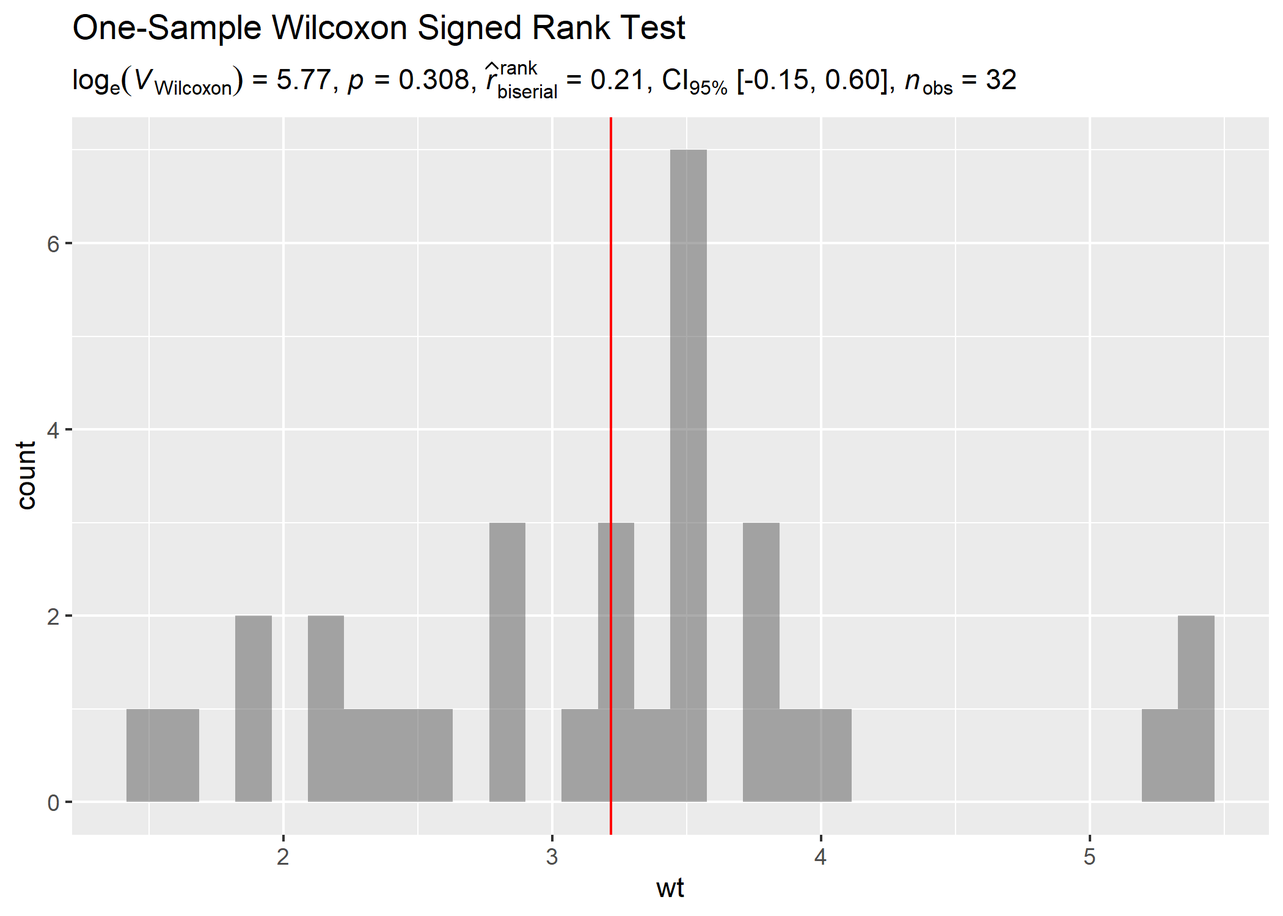
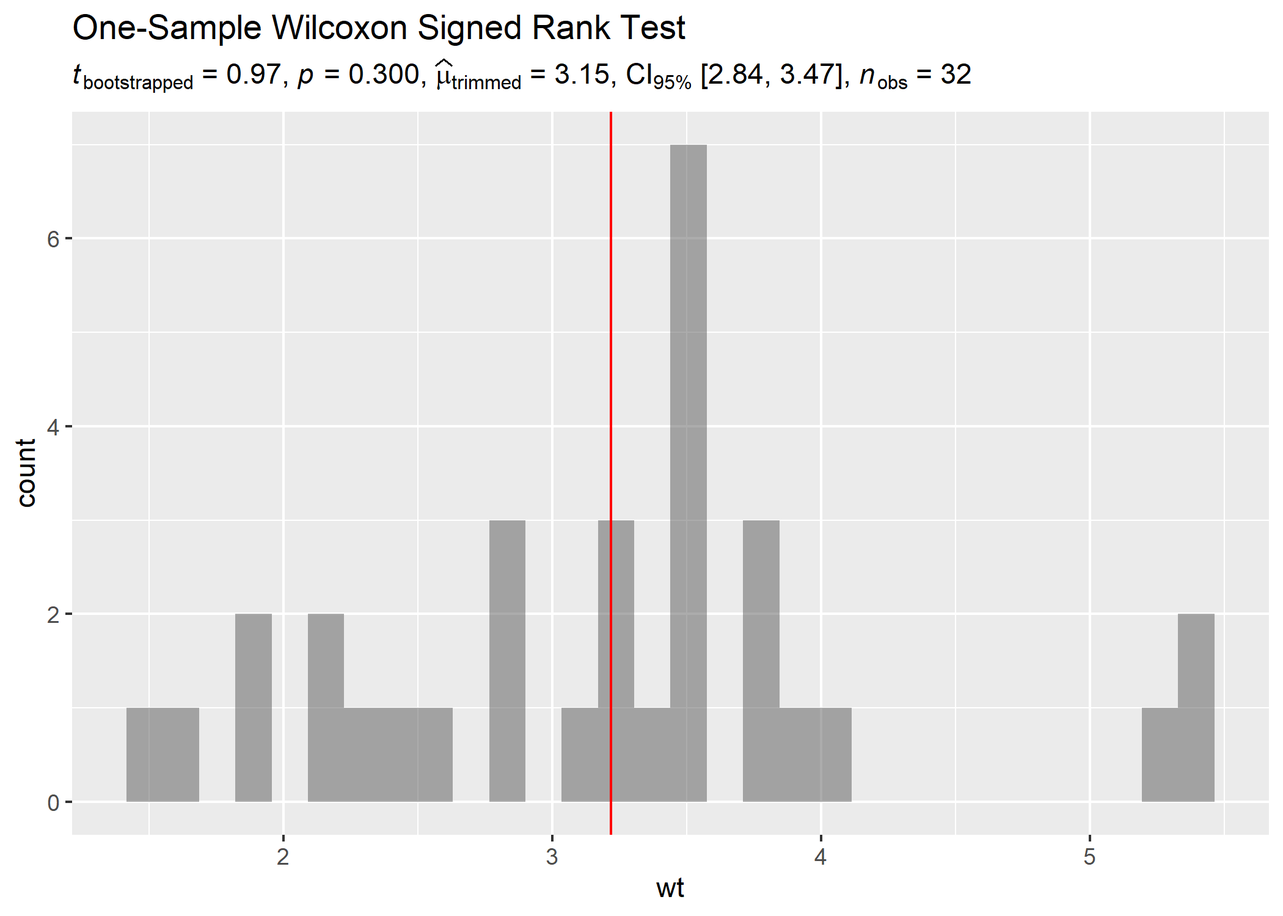
change the robust one sample test

diff --git a/docs/reference/expr_t_twosample.html b/docs/reference/expr_t_twosample.html
@@ -306,13 +306,13 @@ if appropriate as shown in the second example below.</p>
   type <span class='op'>=</span> <span class='st'>"p"</span>,
   output <span class='op'>=</span> <span class='st'>"dataframe"</span>
 <span class='op'>)</span>
-</div><div class='output co'>#&gt; <span style='color: #949494;'># A tibble: 1 x 11</span><span>
+</div><div class='output co'>#&gt; <span style='color: #555555;'># A tibble: 1 x 11</span><span>
 #&gt;   </span><span style='font-weight: bold;'>term</span><span>  </span><span style='font-weight: bold;'>group</span><span>    </span><span style='font-weight: bold;'>statistic</span><span> </span><span style='font-weight: bold;'>df.error</span><span>  </span><span style='font-weight: bold;'>p.value</span><span> </span><span style='font-weight: bold;'>method</span><span>        </span><span style='font-weight: bold;'>estimate</span><span> </span><span style='font-weight: bold;'>ci.width</span><span>
-#&gt;   </span><span style='color: #949494;font-style: italic;'>&lt;chr&gt;</span><span> </span><span style='color: #949494;font-style: italic;'>&lt;chr&gt;</span><span>        </span><span style='color: #949494;font-style: italic;'>&lt;dbl&gt;</span><span>    </span><span style='color: #949494;font-style: italic;'>&lt;dbl&gt;</span><span>    </span><span style='color: #949494;font-style: italic;'>&lt;dbl&gt;</span><span> </span><span style='color: #949494;font-style: italic;'>&lt;chr&gt;</span><span>            </span><span style='color: #949494;font-style: italic;'>&lt;dbl&gt;</span><span>    </span><span style='color: #949494;font-style: italic;'>&lt;dbl&gt;</span><span>
-#&gt; </span><span style='color: #BCBCBC;'>1</span><span> score modality     -</span><span style='color: #BB0000;'>3.96</span><span>       33 </span><span style='color: #949494;'>0.000</span><span style='text-decoration: underline;'>373</span><span> Paired t-test   -</span><span style='color: #949494;'>0.</span><span style='color: #BB0000;'>664</span><span>     </span><span style='color: #949494;'>0.</span><span>95
+#&gt;   </span><span style='color: #555555;font-style: italic;'>&lt;chr&gt;</span><span> </span><span style='color: #555555;font-style: italic;'>&lt;chr&gt;</span><span>        </span><span style='color: #555555;font-style: italic;'>&lt;dbl&gt;</span><span>    </span><span style='color: #555555;font-style: italic;'>&lt;dbl&gt;</span><span>    </span><span style='color: #555555;font-style: italic;'>&lt;dbl&gt;</span><span> </span><span style='color: #555555;font-style: italic;'>&lt;chr&gt;</span><span>            </span><span style='color: #555555;font-style: italic;'>&lt;dbl&gt;</span><span>    </span><span style='color: #555555;font-style: italic;'>&lt;dbl&gt;</span><span>
+#&gt; </span><span style='color: #555555;'>1</span><span> score modality     -</span><span style='color: #BB0000;'>3.96</span><span>       33 </span><span style='color: #555555;'>0.000</span><span style='text-decoration: underline;'>373</span><span> Paired t-test   -</span><span style='color: #555555;'>0.</span><span style='color: #BB0000;'>664</span><span>     </span><span style='color: #555555;'>0.</span><span>95
 #&gt;   </span><span style='font-weight: bold;'>conf.low</span><span> </span><span style='font-weight: bold;'>conf.high</span><span> </span><span style='font-weight: bold;'>effectsize</span><span>
-#&gt;      </span><span style='color: #949494;font-style: italic;'>&lt;dbl&gt;</span><span>     </span><span style='color: #949494;font-style: italic;'>&lt;dbl&gt;</span><span> </span><span style='color: #949494;font-style: italic;'>&lt;chr&gt;</span><span>     
-#&gt; </span><span style='color: #BCBCBC;'>1</span><span>    -</span><span style='color: #BB0000;'>1.04</span><span>    -</span><span style='color: #949494;'>0.</span><span style='color: #BB0000;'>299</span><span> Hedges' g </div><div class='input'>
+#&gt;      </span><span style='color: #555555;font-style: italic;'>&lt;dbl&gt;</span><span>     </span><span style='color: #555555;font-style: italic;'>&lt;dbl&gt;</span><span> </span><span style='color: #555555;font-style: italic;'>&lt;chr&gt;</span><span>     
+#&gt; </span><span style='color: #555555;'>1</span><span>    -</span><span style='color: #BB0000;'>1.04</span><span>    -</span><span style='color: #555555;'>0.</span><span style='color: #BB0000;'>299</span><span> Hedges' g </div><div class='input'>
 <span class='co'># ----------------------- non-parametric ----------------------------------</span>
 
 <span class='co'># between-subjects design</span>
@@ -336,13 +336,13 @@ if appropriate as shown in the second example below.</p>
   type <span class='op'>=</span> <span class='st'>"np"</span>,
   output <span class='op'>=</span> <span class='st'>"dataframe"</span>
 <span class='op'>)</span>
-</div><div class='output co'>#&gt; <span class='warning'>Warning: Zeros detected. These cannot be sign-rank transformed.</span></div><div class='output co'>#&gt; </span><span style='color: #949494;'># A tibble: 1 x 10</span><span>
+</div><div class='output co'>#&gt; <span class='warning'>Warning: Zeros detected. These cannot be sign-rank transformed.</span></div><div class='output co'>#&gt; </span><span style='color: #555555;'># A tibble: 1 x 10</span><span>
 #&gt;   </span><span style='font-weight: bold;'>parameter1</span><span> </span><span style='font-weight: bold;'>parameter2</span><span> </span><span style='font-weight: bold;'>statistic</span><span>  </span><span style='font-weight: bold;'>p.value</span><span> </span><span style='font-weight: bold;'>method</span><span>                    </span><span style='font-weight: bold;'>estimate</span><span>
-#&gt;   </span><span style='color: #949494;font-style: italic;'>&lt;chr&gt;</span><span>      </span><span style='color: #949494;font-style: italic;'>&lt;chr&gt;</span><span>          </span><span style='color: #949494;font-style: italic;'>&lt;dbl&gt;</span><span>    </span><span style='color: #949494;font-style: italic;'>&lt;dbl&gt;</span><span> </span><span style='color: #949494;font-style: italic;'>&lt;chr&gt;</span><span>                        </span><span style='color: #949494;font-style: italic;'>&lt;dbl&gt;</span><span>
-#&gt; </span><span style='color: #BCBCBC;'>1</span><span> score      modality        1.50 </span><span style='color: #949494;'>0.000</span><span style='text-decoration: underline;'>886</span><span> Wilcoxon signed rank test   -</span><span style='color: #949494;'>0.</span><span style='color: #BB0000;'>934</span><span>
+#&gt;   </span><span style='color: #555555;font-style: italic;'>&lt;chr&gt;</span><span>      </span><span style='color: #555555;font-style: italic;'>&lt;chr&gt;</span><span>          </span><span style='color: #555555;font-style: italic;'>&lt;dbl&gt;</span><span>    </span><span style='color: #555555;font-style: italic;'>&lt;dbl&gt;</span><span> </span><span style='color: #555555;font-style: italic;'>&lt;chr&gt;</span><span>                        </span><span style='color: #555555;font-style: italic;'>&lt;dbl&gt;</span><span>
+#&gt; </span><span style='color: #555555;'>1</span><span> score      modality        1.50 </span><span style='color: #555555;'>0.000</span><span style='text-decoration: underline;'>886</span><span> Wilcoxon signed rank test   -</span><span style='color: #555555;'>0.</span><span style='color: #BB0000;'>934</span><span>
 #&gt;   </span><span style='font-weight: bold;'>ci.width</span><span> </span><span style='font-weight: bold;'>conf.low</span><span> </span><span style='font-weight: bold;'>conf.high</span><span> </span><span style='font-weight: bold;'>effectsize</span><span>       
-#&gt;      </span><span style='color: #949494;font-style: italic;'>&lt;dbl&gt;</span><span>    </span><span style='color: #949494;font-style: italic;'>&lt;dbl&gt;</span><span>     </span><span style='color: #949494;font-style: italic;'>&lt;dbl&gt;</span><span> </span><span style='color: #949494;font-style: italic;'>&lt;chr&gt;</span><span>            
-#&gt; </span><span style='color: #BCBCBC;'>1</span><span>     </span><span style='color: #949494;'>0.</span><span>95       -</span><span style='color: #BB0000;'>1</span><span>    -</span><span style='color: #949494;'>0.</span><span style='color: #BB0000;'>761</span><span> r (rank biserial)</div><div class='input'>
+#&gt;      </span><span style='color: #555555;font-style: italic;'>&lt;dbl&gt;</span><span>    </span><span style='color: #555555;font-style: italic;'>&lt;dbl&gt;</span><span>     </span><span style='color: #555555;font-style: italic;'>&lt;dbl&gt;</span><span> </span><span style='color: #555555;font-style: italic;'>&lt;chr&gt;</span><span>            
+#&gt; </span><span style='color: #555555;'>1</span><span>     </span><span style='color: #555555;'>0.</span><span>95       -</span><span style='color: #BB0000;'>1</span><span>    -</span><span style='color: #555555;'>0.</span><span style='color: #BB0000;'>761</span><span> r (rank biserial)</div><div class='input'>
 <span class='co'># ------------------------------ robust ----------------------------------</span>
 
 <span class='co'># between-subjects design</span>
@@ -366,13 +366,13 @@ if appropriate as shown in the second example below.</p>
   type <span class='op'>=</span> <span class='st'>"r"</span>,
   output <span class='op'>=</span> <span class='st'>"dataframe"</span>
 <span class='op'>)</span>
-</div><div class='output co'>#&gt; </span><span style='color: #949494;'># A tibble: 1 x 12</span><span>
+</div><div class='output co'>#&gt; </span><span style='color: #555555;'># A tibble: 1 x 12</span><span>
 #&gt;   </span><span style='font-weight: bold;'>statistic</span><span> </span><span style='font-weight: bold;'>df.error</span><span> </span><span style='font-weight: bold;'>p.value</span><span> </span><span style='font-weight: bold;'>method</span><span>                                            
-#&gt;       </span><span style='color: #949494;font-style: italic;'>&lt;dbl&gt;</span><span>    </span><span style='color: #949494;font-style: italic;'>&lt;dbl&gt;</span><span>   </span><span style='color: #949494;font-style: italic;'>&lt;dbl&gt;</span><span> </span><span style='color: #949494;font-style: italic;'>&lt;chr&gt;</span><span>                                             
-#&gt; </span><span style='color: #BCBCBC;'>1</span><span>     -</span><span style='color: #BB0000;'>3.07</span><span>       27 </span><span style='color: #949494;'>0.00</span><span>4</span><span style='text-decoration: underline;'>79</span><span> Yuen's test on trimmed means for dependent samples
+#&gt;       </span><span style='color: #555555;font-style: italic;'>&lt;dbl&gt;</span><span>    </span><span style='color: #555555;font-style: italic;'>&lt;dbl&gt;</span><span>   </span><span style='color: #555555;font-style: italic;'>&lt;dbl&gt;</span><span> </span><span style='color: #555555;font-style: italic;'>&lt;chr&gt;</span><span>                                             
+#&gt; </span><span style='color: #555555;'>1</span><span>     -</span><span style='color: #BB0000;'>3.07</span><span>       27 </span><span style='color: #555555;'>0.00</span><span>4</span><span style='text-decoration: underline;'>79</span><span> Yuen's test on trimmed means for dependent samples
 #&gt;   </span><span style='font-weight: bold;'>effectsize</span><span> </span><span style='font-weight: bold;'>`NULL`</span><span> </span><span style='font-weight: bold;'>estimate</span><span>     </span><span style='font-weight: bold;'>S</span><span>     </span><span style='font-weight: bold;'>M</span><span>     </span><span style='font-weight: bold;'>L</span><span> </span><span style='font-weight: bold;'>conf.low</span><span> </span><span style='font-weight: bold;'>conf.high</span><span>
-#&gt;   </span><span style='color: #949494;font-style: italic;'>&lt;chr&gt;</span><span>       </span><span style='color: #949494;font-style: italic;'>&lt;dbl&gt;</span><span>    </span><span style='color: #949494;font-style: italic;'>&lt;dbl&gt;</span><span> </span><span style='color: #949494;font-style: italic;'>&lt;dbl&gt;</span><span> </span><span style='color: #949494;font-style: italic;'>&lt;dbl&gt;</span><span> </span><span style='color: #949494;font-style: italic;'>&lt;dbl&gt;</span><span>    </span><span style='color: #949494;font-style: italic;'>&lt;dbl&gt;</span><span>     </span><span style='color: #949494;font-style: italic;'>&lt;dbl&gt;</span><span>
-#&gt; </span><span style='color: #BCBCBC;'>1</span><span> AKP             </span><span style='color: #949494;'>0</span><span>   -</span><span style='color: #949494;'>0.</span><span style='color: #BB0000;'>593</span><span>   </span><span style='color: #949494;'>0.</span><span>1   </span><span style='color: #949494;'>0.</span><span>3   </span><span style='color: #949494;'>0.</span><span>5   -</span><span style='color: #949494;'>0.</span><span style='color: #BB0000;'>836</span><span>    -</span><span style='color: #949494;'>0.</span><span style='color: #BB0000;'>296</span><span></div><div class='input'>
+#&gt;   </span><span style='color: #555555;font-style: italic;'>&lt;chr&gt;</span><span>       </span><span style='color: #555555;font-style: italic;'>&lt;dbl&gt;</span><span>    </span><span style='color: #555555;font-style: italic;'>&lt;dbl&gt;</span><span> </span><span style='color: #555555;font-style: italic;'>&lt;dbl&gt;</span><span> </span><span style='color: #555555;font-style: italic;'>&lt;dbl&gt;</span><span> </span><span style='color: #555555;font-style: italic;'>&lt;dbl&gt;</span><span>    </span><span style='color: #555555;font-style: italic;'>&lt;dbl&gt;</span><span>     </span><span style='color: #555555;font-style: italic;'>&lt;dbl&gt;</span><span>
+#&gt; </span><span style='color: #555555;'>1</span><span> AKP             </span><span style='color: #555555;'>0</span><span>   -</span><span style='color: #555555;'>0.</span><span style='color: #BB0000;'>593</span><span>   </span><span style='color: #555555;'>0.</span><span>1   </span><span style='color: #555555;'>0.</span><span>3   </span><span style='color: #555555;'>0.</span><span>5   -</span><span style='color: #555555;'>0.</span><span style='color: #BB0000;'>836</span><span>    -</span><span style='color: #555555;'>0.</span><span style='color: #BB0000;'>296</span><span></div><div class='input'>
 <span class='co'>#' # ------------------------------ Bayesian ------------------------------</span>
 
 <span class='co'># between-subjects design</span>
@@ -395,15 +395,15 @@ if appropriate as shown in the second example below.</p>
   type <span class='op'>=</span> <span class='st'>"bayes"</span>,
   output <span class='op'>=</span> <span class='st'>"dataframe"</span>
 <span class='op'>)</span>
-</div><div class='output co'>#&gt; </span><span style='color: #949494;'># A tibble: 2 x 12</span><span>
+</div><div class='output co'>#&gt; </span><span style='color: #555555;'># A tibble: 2 x 12</span><span>
 #&gt;   </span><span style='font-weight: bold;'>term</span><span>       </span><span style='font-weight: bold;'>estimate</span><span> </span><span style='font-weight: bold;'>conf.low</span><span> </span><span style='font-weight: bold;'>conf.high</span><span>    </span><span style='font-weight: bold;'>pd</span><span> </span><span style='font-weight: bold;'>rope.percentage</span><span>
-#&gt;   </span><span style='color: #949494;font-style: italic;'>&lt;chr&gt;</span><span>         </span><span style='color: #949494;font-style: italic;'>&lt;dbl&gt;</span><span>    </span><span style='color: #949494;font-style: italic;'>&lt;dbl&gt;</span><span>     </span><span style='color: #949494;font-style: italic;'>&lt;dbl&gt;</span><span> </span><span style='color: #949494;font-style: italic;'>&lt;dbl&gt;</span><span>           </span><span style='color: #949494;font-style: italic;'>&lt;dbl&gt;</span><span>
-#&gt; </span><span style='color: #BCBCBC;'>1</span><span> Difference    </span><span style='color: #949494;'>0.</span><span>172   </span><span style='color: #949494;'>0.0</span><span>81</span><span style='text-decoration: underline;'>8</span><span>     </span><span style='color: #949494;'>0.</span><span>266 1                   </span><span style='color: #949494;'>0</span><span>
-#&gt; </span><span style='color: #BCBCBC;'>2</span><span> Cohens_d     -</span><span style='color: #949494;'>0.</span><span style='color: #BB0000;'>637</span><span>  -</span><span style='color: #949494;'>0.</span><span style='color: #BB0000;'>992</span><span>     -</span><span style='color: #949494;'>0.</span><span style='color: #BB0000;'>258</span><span> </span><span style='color: #949494;'>0.</span><span>999               </span><span style='color: #949494;'>0</span><span>
+#&gt;   </span><span style='color: #555555;font-style: italic;'>&lt;chr&gt;</span><span>         </span><span style='color: #555555;font-style: italic;'>&lt;dbl&gt;</span><span>    </span><span style='color: #555555;font-style: italic;'>&lt;dbl&gt;</span><span>     </span><span style='color: #555555;font-style: italic;'>&lt;dbl&gt;</span><span> </span><span style='color: #555555;font-style: italic;'>&lt;dbl&gt;</span><span>           </span><span style='color: #555555;font-style: italic;'>&lt;dbl&gt;</span><span>
+#&gt; </span><span style='color: #555555;'>1</span><span> Difference    </span><span style='color: #555555;'>0.</span><span>172   </span><span style='color: #555555;'>0.0</span><span>81</span><span style='text-decoration: underline;'>8</span><span>     </span><span style='color: #555555;'>0.</span><span>266 1                   </span><span style='color: #555555;'>0</span><span>
+#&gt; </span><span style='color: #555555;'>2</span><span> Cohens_d     -</span><span style='color: #555555;'>0.</span><span style='color: #BB0000;'>637</span><span>  -</span><span style='color: #555555;'>0.</span><span style='color: #BB0000;'>992</span><span>     -</span><span style='color: #555555;'>0.</span><span style='color: #BB0000;'>258</span><span> </span><span style='color: #555555;'>0.</span><span>999               </span><span style='color: #555555;'>0</span><span>
 #&gt;   </span><span style='font-weight: bold;'>prior.distribution</span><span> </span><span style='font-weight: bold;'>prior.location</span><span> </span><span style='font-weight: bold;'>prior.scale</span><span>  </span><span style='font-weight: bold;'>bf10</span><span> </span><span style='font-weight: bold;'>method</span><span>          </span><span style='font-weight: bold;'>log_e_bf10</span><span>
-#&gt;   </span><span style='color: #949494;font-style: italic;'>&lt;chr&gt;</span><span>                       </span><span style='color: #949494;font-style: italic;'>&lt;dbl&gt;</span><span>       </span><span style='color: #949494;font-style: italic;'>&lt;dbl&gt;</span><span> </span><span style='color: #949494;font-style: italic;'>&lt;dbl&gt;</span><span> </span><span style='color: #949494;font-style: italic;'>&lt;chr&gt;</span><span>                </span><span style='color: #949494;font-style: italic;'>&lt;dbl&gt;</span><span>
-#&gt; </span><span style='color: #BCBCBC;'>1</span><span> cauchy                          </span><span style='color: #949494;'>0</span><span>       </span><span style='color: #949494;'>0.</span><span>707  77.1 Bayesian t-test       4.34
-#&gt; </span><span style='color: #BCBCBC;'>2</span><span> cauchy                          </span><span style='color: #949494;'>0</span><span>       </span><span style='color: #949494;'>0.</span><span>707  77.1 Bayesian t-test       4.34</div><div class='input'><span class='co'># }</span>
+#&gt;   </span><span style='color: #555555;font-style: italic;'>&lt;chr&gt;</span><span>                       </span><span style='color: #555555;font-style: italic;'>&lt;dbl&gt;</span><span>       </span><span style='color: #555555;font-style: italic;'>&lt;dbl&gt;</span><span> </span><span style='color: #555555;font-style: italic;'>&lt;dbl&gt;</span><span> </span><span style='color: #555555;font-style: italic;'>&lt;chr&gt;</span><span>                </span><span style='color: #555555;font-style: italic;'>&lt;dbl&gt;</span><span>
+#&gt; </span><span style='color: #555555;'>1</span><span> cauchy                          </span><span style='color: #555555;'>0</span><span>       </span><span style='color: #555555;'>0.</span><span>707  77.1 Bayesian t-test       4.34
+#&gt; </span><span style='color: #555555;'>2</span><span> cauchy                          </span><span style='color: #555555;'>0</span><span>       </span><span style='color: #555555;'>0.</span><span>707  77.1 Bayesian t-test       4.34</div><div class='input'><span class='co'># }</span>
 </div></span></pre>
   </div>
   <div class="col-md-3 hidden-xs hidden-sm" id="pkgdown-sidebar">

diff --git a/docs/articles/stats_details.html b/docs/articles/stats_details.html
@@ -456,7 +456,6 @@
 <td>[0,1]</td>
 </tr></tbody>
 </table>
-<p><strong>Reference</strong>: - <a href="https://CRAN.R-project.org/package=WRS2/vignettes/WRS2.pdf" class="uri">https://CRAN.R-project.org/package=WRS2/vignettes/WRS2.pdf</a> - <a href="https://journals.sagepub.com/doi/10.1177/0013164406288161" class="uri">https://journals.sagepub.com/doi/10.1177/0013164406288161</a></p>
 </div>
 </div>
 <div id="between-subjects-design" class="section level2">
@@ -514,7 +513,6 @@
 <td>[0,1]</td>
 </tr></tbody>
 </table>
-<p><strong>Reference</strong>: <a href="https://rcompanion.org/handbook/F_04.html" class="uri">https://rcompanion.org/handbook/F_04.html</a></p>
 </div>
 <div id="robust-2" class="section level3">
 <h3 class="hasAnchor">
@@ -536,7 +534,6 @@
 <td>[0,1]</td>
 </tr></tbody>
 </table>
-<p><strong>Reference</strong>: <a href="https://CRAN.R-project.org/package=WRS2/vignettes/WRS2.pdf" class="uri">https://CRAN.R-project.org/package=WRS2/vignettes/WRS2.pdf</a></p>
 </div>
 </div>
 </div>
@@ -698,7 +695,6 @@
 <td>[0,1]</td>
 </tr></tbody>
 </table>
-<p><strong>Reference</strong>: <a href="https://rcompanion.org/handbook/F_08.html" class="uri">https://rcompanion.org/handbook/F_08.html</a></p>
 </div>
 <div id="robust-4" class="section level3">
 <h3 class="hasAnchor">
@@ -720,7 +716,6 @@
 <td>[0,1]</td>
 </tr></tbody>
 </table>
-<p><strong>Reference</strong>: <a href="https://CRAN.R-project.org/package=WRS2/vignettes/WRS2.pdf" class="uri">https://CRAN.R-project.org/package=WRS2/vignettes/WRS2.pdf</a></p>
 </div>
 </div>
 </div>
@@ -767,7 +762,6 @@
 </tr>
 </tbody>
 </table>
-<p><strong>Reference</strong>: <a href="https://rcompanion.org/handbook/H_10.html" class="uri">https://rcompanion.org/handbook/H_10.html</a></p>
 </div>
 <div id="association-test---paired" class="section level2">
 <h2 class="hasAnchor">
@@ -790,7 +784,6 @@
 <td>[0,1]</td>
 </tr></tbody>
 </table>
-<p><strong>Reference</strong>: <a href="https://rcompanion.org/handbook/H_05.html" class="uri">https://rcompanion.org/handbook/H_05.html</a></p>
 </div>
 <div id="goodness-of-fit-test" class="section level2">
 <h2 class="hasAnchor">
@@ -880,7 +873,6 @@
 </tr>
 </tbody>
 </table>
-<p><strong>Reference</strong>: <a href="https://rcompanion.org/handbook/H_03.html" class="uri">https://rcompanion.org/handbook/H_03.html</a></p>
 </div>
 </div>
 <div id="correlation-analyses" class="section level1">
@@ -976,6 +968,15 @@
 <a href="#dataframe-as-output" class="anchor"></a>Dataframe as output</h1>
 <p>Although the primary focus of this package is to get expressions containing statistical results, one can also use it to extract dataframes containing these details.</p>
 <p>For a more detailed summary of these dataframe: <a href="https://indrajeetpatil.github.io/statsExpressions//articles/web_only/dataframe_outputs.html" class="uri">https://indrajeetpatil.github.io/statsExpressions//articles/web_only/dataframe_outputs.html</a></p>
+</div>
+<div id="references" class="section level1">
+<h1 class="hasAnchor">
+<a href="#references" class="anchor"></a>References</h1>
+<ul>
+<li><p>For parametric and non-parametric effect sizes: <a href="https://easystats.github.io/effectsize/articles/simple_htests.html" class="uri">https://easystats.github.io/effectsize/articles/simple_htests.html</a></p></li>
+<li><p>For robust effect sizes: <a href="https://CRAN.R-project.org/package=WRS2/vignettes/WRS2.pdf" class="uri">https://CRAN.R-project.org/package=WRS2/vignettes/WRS2.pdf</a></p></li>
+<li><p>For Bayesian posterior estimates: <a href="https://easystats.github.io/bayestestR/articles/bayes_factors.html" class="uri">https://easystats.github.io/bayestestR/articles/bayes_factors.html</a></p></li>
+</ul>
 </div>
 <div id="suggestions" class="section level1">
 <h1 class="hasAnchor">

diff --git a/docs/reference/expr_t_onesample.html b/docs/reference/expr_t_onesample.html
@@ -163,8 +163,8 @@ robust equivalents</p>
   test.value <span class='op'>=</span> <span class='fl'>0</span>,
   k <span class='op'>=</span> <span class='fl'>2L</span>,
   conf.level <span class='op'>=</span> <span class='fl'>0.95</span>,
+  tr <span class='op'>=</span> <span class='fl'>0.1</span>,
   bf.prior <span class='op'>=</span> <span class='fl'>0.707</span>,
-  robust.estimator <span class='op'>=</span> <span class='st'>"onestep"</span>,
   effsize.type <span class='op'>=</span> <span class='st'>"g"</span>,
   nboot <span class='op'>=</span> <span class='fl'>100L</span>,
   output <span class='op'>=</span> <span class='st'>"expression"</span>,
@@ -206,15 +206,17 @@ or <code>"robust"</code> or <code>"bayes"</code>).Corresponding abbreviations ar
 <code>95%</code> confidence/credible intervals (<code>0.95</code>).</p></td>
     </tr>
     <tr>
+      <th>tr</th>
+      <td><p>Trim level for the mean when carrying out <code>robust</code> tests. If you
+get error stating "Standard error cannot be computed because of Winsorized
+variance of 0 (e.g., due to ties). Try to decrease the trimming level.",
+try to play around with the value of <code>tr</code>, which is by default set to
+<code>0.1</code>. Lowering the value might help.</p></td>
+    </tr>
+    <tr>
       <th>bf.prior</th>
       <td><p>A number between <code>0.5</code> and <code>2</code> (default <code>0.707</code>), the prior
 width to use in calculating Bayes factors.</p></td>
-    </tr>
-    <tr>
-      <th>robust.estimator</th>
-      <td><p>If <code>type = "robust"</code>, a robust estimator to be used
-(<code>"onestep"</code> (Default), <code>"mom"</code>, or <code>"median"</code>). For more, see
-<code><a href='https://rdrr.io/pkg/WRS2/man/onesampb.html'>?WRS2::onesampb</a></code>.</p></td>
     </tr>
     <tr>
       <th>effsize.type</th>
@@ -286,9 +288,10 @@ argument.</p>
   test.value <span class='op'>=</span> <span class='fl'>0.275</span>,
   type <span class='op'>=</span> <span class='st'>"robust"</span>
 <span class='op'>)</span>
-</div><div class='output co'>#&gt; paste(italic("M")["robust"], " = ", "0.02", ", CI"["95%"], " [", 
-#&gt;     "0.01", ", ", "0.05", "], ", italic("p"), " = ", "0e+00", 
-#&gt;     ", ", italic("n")["obs"], " = ", "56")</div><div class='input'>
+</div><div class='output co'>#&gt; paste(italic("t")["bootstrapped"], " = ", "-8.78", ", ", italic("p"), 
+#&gt;     " = ", "0e+00", ", ", widehat(italic(mu))["trimmed"], " = ", 
+#&gt;     "0.07", ", CI"["95%"], " [", "0.01", ", ", "0.12", "]", ", ", 
+#&gt;     italic("n")["obs"], " = ", "56")</div><div class='input'>
 <span class='co'># ----------------------- Bayes Factor -----------------------------------</span>
 
 <span class='fu'>expr_t_onesample</span><span class='op'>(</span>

diff --git a/docs/articles/web_only/dataframe_outputs.html b/docs/articles/web_only/dataframe_outputs.html
@@ -185,13 +185,13 @@
   type <span class="op">=</span> <span class="st">"robust"</span>,
   output <span class="op">=</span> <span class="st">"dataframe"</span>
 <span class="op">)</span>
-<span class="co">#&gt; # A tibble: 1 x 7</span>
-<span class="co">#&gt;   estimate conf.low conf.high p.value n.obs effectsize             </span>
-<span class="co">#&gt;      &lt;dbl&gt;    &lt;dbl&gt;     &lt;dbl&gt;   &lt;dbl&gt; &lt;int&gt; &lt;chr&gt;                  </span>
-<span class="co">#&gt; 1   0.0211   0.0107    0.0685       0    56 Robust location measure</span>
-<span class="co">#&gt;   method                         </span>
-<span class="co">#&gt;   &lt;chr&gt;                          </span>
-<span class="co">#&gt; 1 One-sample percentile bootstrap</span>
+<span class="co">#&gt; # A tibble: 1 x 8</span>
+<span class="co">#&gt;   estimate conf.low conf.high statistic p.value     n effectsize  </span>
+<span class="co">#&gt;      &lt;dbl&gt;    &lt;dbl&gt;     &lt;dbl&gt;     &lt;dbl&gt;   &lt;dbl&gt; &lt;int&gt; &lt;chr&gt;       </span>
+<span class="co">#&gt; 1   0.0660  0.00500     0.127     -8.78       0    56 Trimmed mean</span>
+<span class="co">#&gt;   method                                </span>
+<span class="co">#&gt;   &lt;chr&gt;                                 </span>
+<span class="co">#&gt; 1 Bootstrap-t method for one-sample test</span>
 
 <span class="co"># ----------------------- Bayes Factor ---------------------------------------</span>
 
@@ -922,8 +922,8 @@
 <span class="co">#&gt; 2 tau        0.486     0.183    0.168     0.845     NA  53.0  1.00 3824.</span>
 <span class="co">#&gt;   component prior.distribution prior.location prior.scale log_e_bf10</span>
 <span class="co">#&gt;   &lt;chr&gt;     &lt;chr&gt;                       &lt;dbl&gt;       &lt;dbl&gt;      &lt;dbl&gt;</span>
-<span class="co">#&gt; 1 meta      t                               1        0.15       3.97</span>
-<span class="co">#&gt; 2 meta      invgamma                        1        0.15       3.97</span></code></pre></div>
+<span class="co">#&gt; 1 meta      Student's t                     0       0.707       3.97</span>
+<span class="co">#&gt; 2 meta      Inverse gamma                   1       0.15        3.97</span></code></pre></div>
 </div>
 <div id="suggestions" class="section level1">
 <h1 class="hasAnchor">

diff --git a/docs/index.html b/docs/index.html
@@ -139,7 +139,7 @@
 <td><a href="https://cran.r-project.org/"><img src="https://img.shields.io/badge/R%3E%3D-3.6.0-6666ff.svg" alt="minimal R version"></a></td>
 <td><a href="https://www.tidyverse.org/lifecycle/"><img src="https://img.shields.io/badge/lifecycle-maturing-blue.svg" alt="lifecycle"></a></td>
 <td><a href="https://CRAN.R-project.org/package=statsExpressions"><img src="https://cranlogs.r-pkg.org/badges/last-month/statsExpressions?color=blue" alt="Monthly downloads badge"></a></td>
-<td><a href="https://github.com/IndrajeetPatil/statsExpressions/issues"><img src="https://img.shields.io/badge/issues-7-red.svg" alt="Github Issues"></a></td>
+<td><a href="https://github.com/IndrajeetPatil/statsExpressions/issues"><img src="https://img.shields.io/badge/issues-6-red.svg" alt="Github Issues"></a></td>
 <td><a href="https://CRAN.R-project.org/package=statsExpressions/vignettes/"><img src="https://img.shields.io/badge/vignettes-0.7.0-orange.svg?colorB=FF5722" alt="vignettes"></a></td>
 </tr>
 <tr class="even">
@@ -566,7 +566,7 @@
   <span class="co"># adding a caption with a non-parametric one-sample test</span>
   <span class="fu"><a href="https://ggplot2.tidyverse.org/reference/labs.html">labs</a></span><span class="op">(</span>
     title <span class="op">=</span> <span class="st">"One-Sample Wilcoxon Signed Rank Test"</span>,
-    subtitle <span class="op">=</span> <span class="fu"><a href="reference/expr_t_onesample.html">expr_t_onesample</a></span><span class="op">(</span><span class="va">mtcars</span>, <span class="va">wt</span>, test.value <span class="op">=</span> <span class="fl">3</span>, type <span class="op">=</span> <span class="st">"nonparametric"</span><span class="op">)</span>
+    subtitle <span class="op">=</span> <span class="fu"><a href="reference/expr_t_onesample.html">expr_t_onesample</a></span><span class="op">(</span><span class="va">mtcars</span>, <span class="va">wt</span>, test.value <span class="op">=</span> <span class="fl">3</span>, type <span class="op">=</span> <span class="st">"robust"</span><span class="op">)</span>
   <span class="op">)</span></code></pre></div>
 <p><img src="reference/figures/README-t_one-1.png" width="100%"></p>
 </div>

diff --git a/docs/reference/expr_meta_random.html b/docs/reference/expr_meta_random.html
@@ -232,7 +232,8 @@ function.</p></td>
 <span class='fu'><a href='https://rdrr.io/r/base/Random.html'>set.seed</a></span><span class='op'>(</span><span class='fl'>123</span><span class='op'>)</span>
 <span class='kw'><a href='https://rdrr.io/r/base/library.html'>library</a></span><span class='op'>(</span><span class='va'><a href='https://indrajeetpatil.github.io/statsExpressions/'>statsExpressions</a></span><span class='op'>)</span>
 <span class='kw'><a href='https://rdrr.io/r/base/library.html'>library</a></span><span class='op'>(</span><span class='va'>metaplus</span><span class='op'>)</span>
-
+</div><div class='output co'>#&gt; <span class='message'></span>
+#&gt; <span class='message'>Note: The second parameter is the study standard error not the standard error squared as in the metafor package.</span></div><div class='input'>
 <span class='co'># renaming to what `statsExpressions` expects</span>
 <span class='va'>df</span> <span class='op'>&lt;-</span> <span class='fu'>dplyr</span><span class='fu'>::</span><span class='fu'><a href='https://dplyr.tidyverse.org/reference/rename.html'>rename</a></span><span class='op'>(</span><span class='va'>mag</span>, estimate <span class='op'>=</span> <span class='va'>yi</span>, std.error <span class='op'>=</span> <span class='va'>sei</span><span class='op'>)</span>
 
@@ -274,7 +275,7 @@ function.</p></td>
 </div><div class='output co'>#&gt; <span class='warning'>Warning: Could not get model data.</span></div><div class='output co'>#&gt; paste("log"["e"], "(BF"["01"], ") = ", "-3.970", ", ", widehat(italic(delta))["mean"]^"posterior", 
 #&gt;     " = ", "-0.650", ", CI"["95%"]^"HDI", " [", "-1.100", ", ", 
 #&gt;     "-0.235", "]", ", ", italic("r")["Cauchy"]^"JZS", " = ", 
-#&gt;     "0.150")</div><div class='input'><span class='co'># }</span>
+#&gt;     "0.707")</div><div class='input'><span class='co'># }</span>
 </div></span></pre>
   </div>
   <div class="col-md-3 hidden-xs hidden-sm" id="pkgdown-sidebar">

diff --git a/docs/news/index.html b/docs/news/index.html
@@ -159,9 +159,15 @@
 </ul>
 </li>
 </ul>
+<p>BUG FIXES</p>
+<ul>
+<li>
+<code>expr_contingency_tab</code> ignored <code>ratio</code> argument while computing Cramer’s <em>V</em> for one-sample test. This is fixed.</li>
+</ul>
 <p>MAJOR CHANGES</p>
 <ul>
-<li>All non-parametric functions now use <code>effectsize</code> package to compute effect sizes and not <code>rcompanion</code>. This would lead to some changes in effect sizes and their confidence intervals reported by the respective functions.</li>
+<li><p>All non-parametric functions now use <code>effectsize</code> package to compute effect sizes and not <code>rcompanion</code>. This would lead to some changes in effect sizes and their confidence intervals reported by the respective functions.</p></li>
+<li><p>Robust one-sample test is changed from one-sample percentile bootstrap to bootstrap-<em>t</em> method for one-sample test, which uses trimmed mean like the rest of the robust functions in this package.</p></li>
 </ul>
 <p>MINOR CHANGES</p>
 <ul>

diff --git a/README.md b/README.md
@@ -7,7 +7,7 @@
 |---------------------------------------------------------------------------------------------------------------------------------------------------------------------------|--------------------------------------------------------------------------------------------------------------------------------------------------------------------------------------------------------|------------------------------------------------------------------------------------------------------------------------------------------------------------------------------------|--------------------------------------------------------------------------------------------------------------------------------------------------------------------------|---------------------------------------------------------------------------------------------------------------------------------------------------------------------------|
 | [![CRAN\_Release\_Badge](http://www.r-pkg.org/badges/version-ago/statsExpressions)](https://CRAN.R-project.org/package=statsExpressions)                                  | [![Build Status](https://travis-ci.org/IndrajeetPatil/statsExpressions.svg?branch=master)](https://travis-ci.org/IndrajeetPatil/statsExpressions)                                                      | [![Daily downloads badge](https://cranlogs.r-pkg.org/badges/last-day/statsExpressions?color=blue)](https://CRAN.R-project.org/package=statsExpressions)                            | [![GitHub version](https://img.shields.io/badge/GitHub-0.7.0-orange.svg?style=flat-square)](https://github.com/IndrajeetPatil/statsExpressions/)                         | [![Website](https://img.shields.io/badge/website-statsExpressions-orange.svg?colorB=E91E63)](https://indrajeetpatil.github.io/statsExpressions/)                          |
 | [![CRAN Checks](https://cranchecks.info/badges/summary/statsExpressions)](https://cran.r-project.org/web/checks/check_results_statsExpressions.html)                      | [![AppVeyor Build Status](https://ci.appveyor.com/api/projects/status/github/IndrajeetPatil/statsExpressions?branch=master&svg=true)](https://ci.appveyor.com/project/IndrajeetPatil/statsExpressions) | [![Weekly downloads badge](https://cranlogs.r-pkg.org/badges/last-week/statsExpressions?color=blue)](https://CRAN.R-project.org/package=statsExpressions)                          | [![Forks](https://img.shields.io/badge/forks-10-blue.svg)](https://github.com/IndrajeetPatil/statsExpressions/)                                                          | [![Features](https://img.shields.io/badge/features-statsExpressions-orange.svg?colorB=2196F3)](https://indrajeetpatil.github.io/statsExpressions/reference/index.html)    |
-| [![minimal R version](https://img.shields.io/badge/R%3E%3D-3.6.0-6666ff.svg)](https://cran.r-project.org/)                                                                | [![lifecycle](https://img.shields.io/badge/lifecycle-maturing-blue.svg)](https://www.tidyverse.org/lifecycle/)                                                                                         | [![Monthly downloads badge](https://cranlogs.r-pkg.org/badges/last-month/statsExpressions?color=blue)](https://CRAN.R-project.org/package=statsExpressions)                        | [![Github Issues](https://img.shields.io/badge/issues-7-red.svg)](https://github.com/IndrajeetPatil/statsExpressions/issues)                                             | [![vignettes](https://img.shields.io/badge/vignettes-0.7.0-orange.svg?colorB=FF5722)](https://CRAN.R-project.org/package=statsExpressions/vignettes/)                     |
+| [![minimal R version](https://img.shields.io/badge/R%3E%3D-3.6.0-6666ff.svg)](https://cran.r-project.org/)                                                                | [![lifecycle](https://img.shields.io/badge/lifecycle-maturing-blue.svg)](https://www.tidyverse.org/lifecycle/)                                                                                         | [![Monthly downloads badge](https://cranlogs.r-pkg.org/badges/last-month/statsExpressions?color=blue)](https://CRAN.R-project.org/package=statsExpressions)                        | [![Github Issues](https://img.shields.io/badge/issues-6-red.svg)](https://github.com/IndrajeetPatil/statsExpressions/issues)                                             | [![vignettes](https://img.shields.io/badge/vignettes-0.7.0-orange.svg?colorB=FF5722)](https://CRAN.R-project.org/package=statsExpressions/vignettes/)                     |
 | [![GitHub code size in bytes](https://img.shields.io/github/languages/code-size/IndrajeetPatil/statsExpressions.svg)](https://github.com/IndrajeetPatil/statsExpressions) | [![Coverage Status](https://coveralls.io/repos/github/IndrajeetPatil/statsExpressions/badge.svg?branch=master)](https://coveralls.io/github/IndrajeetPatil/statsExpressions?branch=master)             | [![Total downloads badge](https://cranlogs.r-pkg.org/badges/grand-total/statsExpressions?color=blue)](https://CRAN.R-project.org/package=statsExpressions)                         | [![Github Stars](https://img.shields.io/github/stars/IndrajeetPatil/statsExpressions.svg?style=social&label=Github)](https://github.com/IndrajeetPatil/statsExpressions) | [![DOI](https://zenodo.org/badge/DOI/10.5281/zenodo.2074621.svg)](https://doi.org/10.5281/zenodo.3386122)                                                                 |
 | [![Licence](https://img.shields.io/badge/licence-GPL--3-blue.svg)](https://www.gnu.org/licenses/gpl-3.0.en.html)                                                          | [![Codecov test coverage](https://codecov.io/gh/IndrajeetPatil/statsExpressions/branch/master/graph/badge.svg)](https://codecov.io/gh/IndrajeetPatil/statsExpressions?branch=master)                   | [![Covrpage Summary](https://img.shields.io/badge/covrpage-Last_Build_2020_03_22-yellowgreen.svg)](https://github.com/IndrajeetPatil/statsExpressions/blob/master/tests/README.md) | [![Last-changedate](https://img.shields.io/badge/last%20change-2021--01--09-yellowgreen.svg)](https://github.com/IndrajeetPatil/statsExpressions/commits/master)         | [![GitHub last commit](https://img.shields.io/github/last-commit/IndrajeetPatil/statsExpressions.svg)](https://github.com/IndrajeetPatil/statsExpressions/commits/master) |
 | [![status](https://tinyverse.netlify.com/badge/statsExpressions)](https://CRAN.R-project.org/package=statsExpressions)                                                    | [![R build status](https://github.com/IndrajeetPatil/statsExpressions/workflows/R-CMD-check/badge.svg)](https://github.com/IndrajeetPatil/statsExpressions)                                            | [![Gitter chat](https://badges.gitter.im/gitterHQ/gitter.png)](https://gitter.im/statsExpressions/community)                                                                       | [![Project Status](http://www.repostatus.org/badges/latest/active.svg)](https://www.repostatus.org/#active)                                                              | [![contributions welcome](https://img.shields.io/badge/contributions-welcome-brightgreen.svg?style=flat)](https://github.com/IndrajeetPatil/statsExpressions/issues)      |
@@ -418,7 +418,7 @@ ggplot(mtcars, aes(wt)) +
   # adding a caption with a non-parametric one-sample test
   labs(
     title = "One-Sample Wilcoxon Signed Rank Test",
-    subtitle = expr_t_onesample(mtcars, wt, test.value = 3, type = "nonparametric")
+    subtitle = expr_t_onesample(mtcars, wt, test.value = 3, type = "robust")
   )
 ```
 

diff --git a/NEWS.md b/NEWS.md
@@ -25,6 +25,10 @@ MAJOR CHANGES
     sizes and not `rcompanion`. This would lead to some changes in effect sizes
     and their confidence intervals reported by the respective functions.
 
+  - Robust one-sample test is changed from one-sample percentile bootstrap to
+    bootstrap-*t* method for one-sample test, which uses trimmed mean like the
+    rest of the robust functions in this package.
+
 MINOR CHANGES
 
   - Package internally relies on `afex` instead of `ez` for within-subjects
